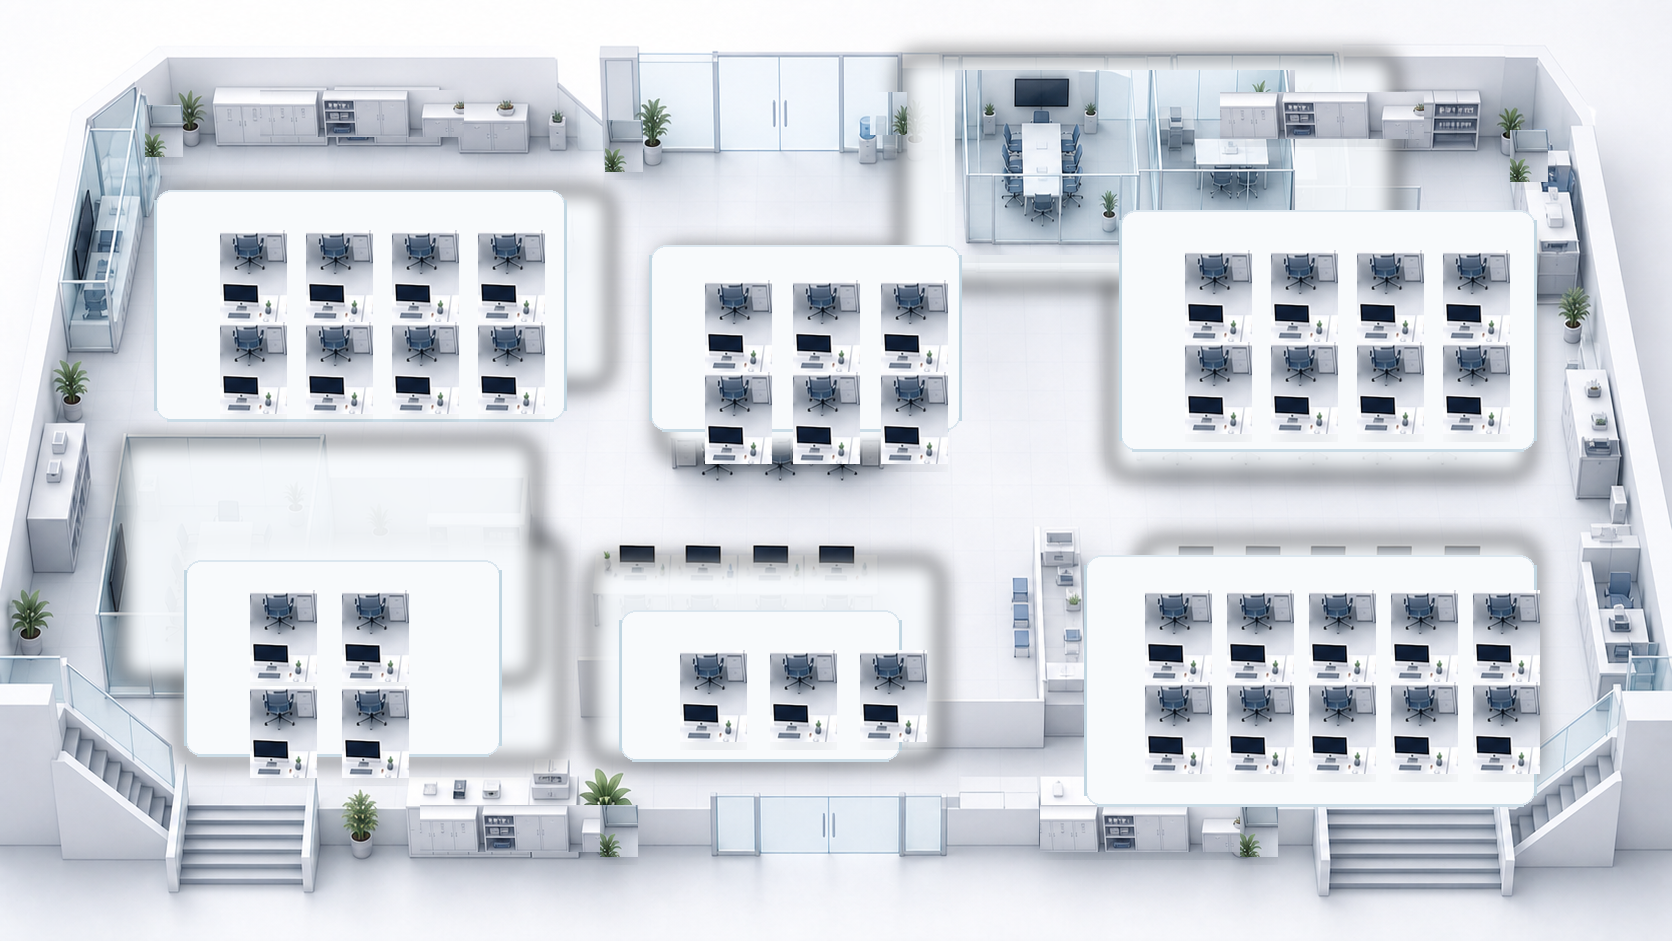
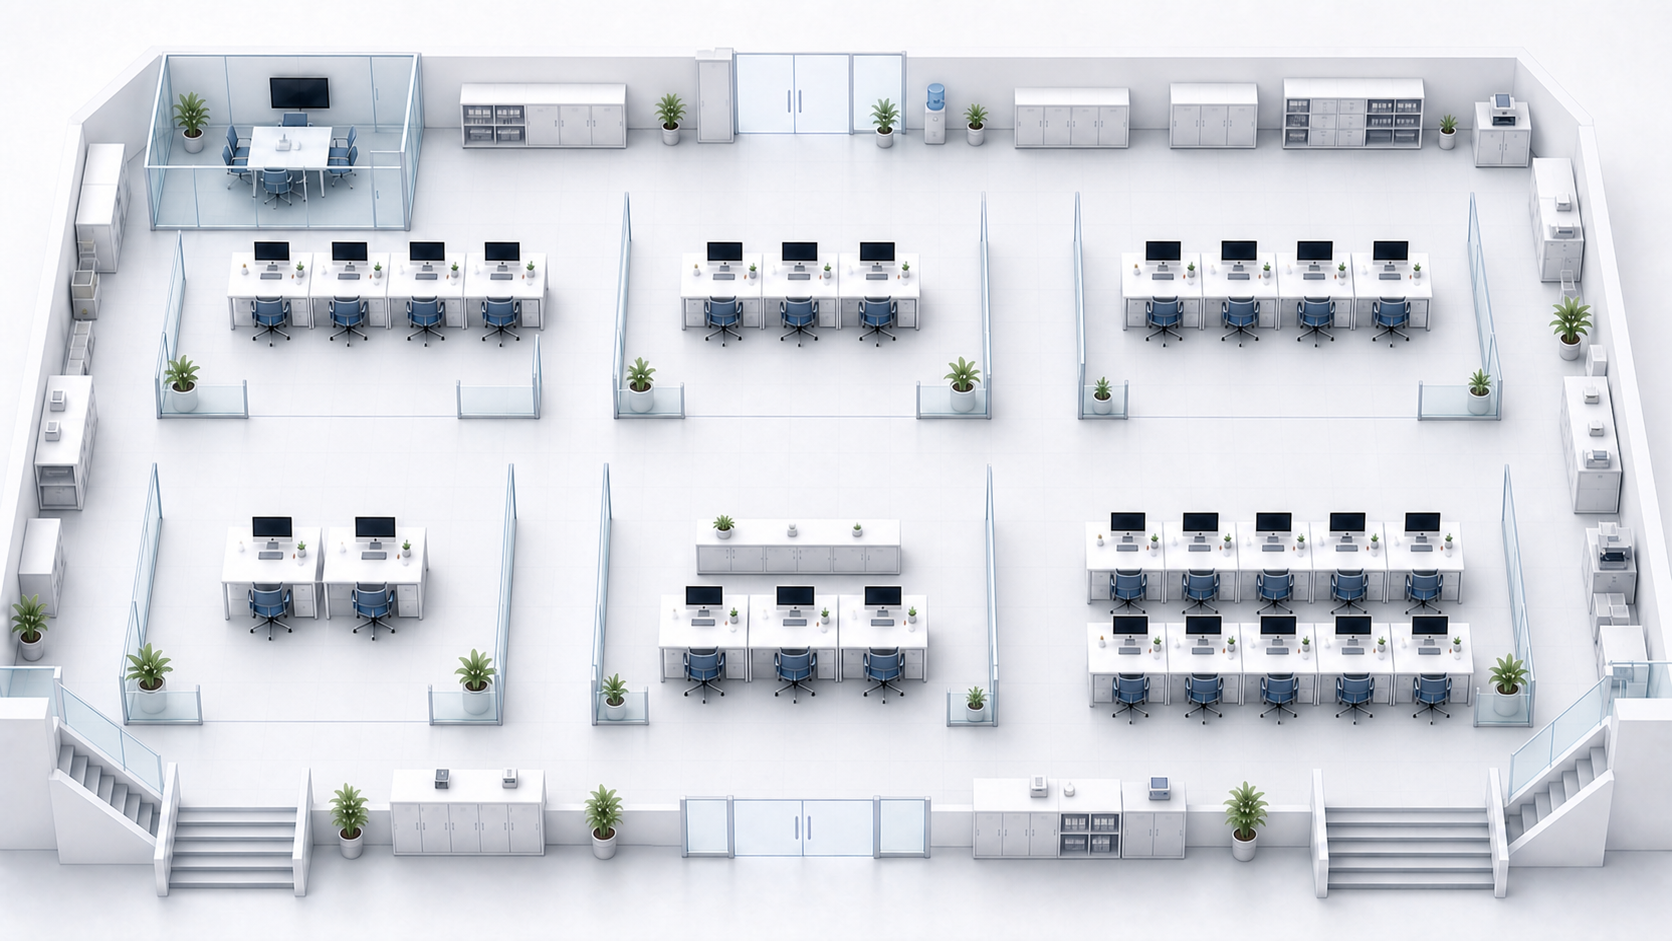
chore: update run-overview images and task launch form styles

diff --git a/apps/web/src/features/task-launches/components/task-launch-form.tsx b/apps/web/src/features/task-launches/components/task-launch-form.tsx
@@ -1,5 +1,6 @@
-import { type ReactNode, useMemo, useState } from "react";
+import { type CSSProperties, type ReactNode, useMemo, useState } from "react";
 import { useMutation } from "@tanstack/react-query";
+import "./task-launch-aurora.css";
 import {
   CircleAlert,
   FolderOpen,
@@ -37,6 +38,31 @@ type TaskLaunchFormProps = {
 function deriveTitle(content: string): string {
   return content.trim().split(/\n+/)[0]?.slice(0, 80) ?? "";
 }
+
+/**
+ * 玻璃外壳：半透明 + 背景模糊，承载页面层级与质感（backdrop-filter 只作用在
+ * 这一层，数据区域使用下方实体内核，避免逐行阅读区产生模糊开销）。
+ * 用内联 style 覆盖 SoftCard 的实底基类（bg-v3-card 等），保证可逆。
+ */
+const auroraShellStyle: CSSProperties = {
+  background: "rgba(255, 255, 255, 0.5)",
+  backdropFilter: "blur(20px) saturate(135%)",
+  WebkitBackdropFilter: "blur(20px) saturate(135%)",
+  border: "1px solid rgba(255, 255, 255, 0.85)",
+  borderRadius: "24px",
+  boxShadow:
+    "0 1px 0 rgba(255, 255, 255, 0.9) inset, 0 28px 64px -30px rgba(36, 58, 140, 0.45)",
+};
+
+/** 实体内核：不透明白底，承载所有逐行可读数据，保证高对比与可访问性。 */
+const auroraCoreStyle: CSSProperties = {
+  margin: "24px",
+  background: "#ffffff",
+  border: "1px solid var(--v3-line-strong)",
+  borderRadius: "14px",
+  overflow: "hidden",
+  boxShadow: "0 10px 30px -22px rgba(36, 58, 140, 0.4)",
+};
 
 export function TaskLaunchForm({
   isSubmitting = false,
@@ -105,8 +131,14 @@ export function TaskLaunchForm({
   }
 
   return (
-    <SoftCard className="mx-auto w-full max-w-[1120px] overflow-hidden p-0">
-      <div className="grid gap-6 p-4 sm:p-6 xl:p-7">
+    <>
+      <div className="tl-aurora-bg" aria-hidden="true" />
+      <SoftCard
+        className="mx-auto w-full max-w-[1120px] overflow-hidden p-0"
+        style={auroraShellStyle}
+      >
+        <div style={auroraCoreStyle}>
+          <div className="grid gap-6 p-4 sm:p-6 xl:p-7">
         <div className="min-w-0">
           <div className="flex items-center gap-2 text-sm font-bold text-v3-brand-deep">
             <Sparkles className="size-4" />
@@ -252,12 +284,14 @@ export function TaskLaunchForm({
           提交任务
         </V3Button>
       </div>
+      </div>
       <PromptTemplateDialog
         open={templateDialogOpen}
         onOpenChange={setTemplateDialogOpen}
         onInsert={handleInsertTemplate}
       />
     </SoftCard>
+    </>
   );
 }
 function LaunchSelect({

diff --git a/apps/web/src/features/task-launches/components/task-launch-aurora.css b/apps/web/src/features/task-launches/components/task-launch-aurora.css
@@ -1,0 +1,31 @@
+/* 任务发起页 · 极光对角玻璃背景（实验性，仅本页作用域）
+ *
+ * 视觉参考：docs/prototypes/task-launch-glass-bg-aurora.html
+ * 设计意图：玻璃外壳 + 实体内核（glass shell / solid core）。
+ *   - 背景为两束低透明对角色晕（左上品牌蓝 / 右下紫）+ 中性冷灰底 + 极淡点阵结构纹理。
+ *   - 该样式只作用于任务发起页，随组件卸载自动移除，不会泄漏到全局。
+ *
+ * 回退方式：删除 task-launch-form.tsx 顶部的 `import "./task-launch-aurora.css";`
+ * 以及该文件中的 <div className="tl-aurora-bg" /> 即可恢复中性基线。
+ */
+
+.tl-aurora-bg {
+  position: fixed;
+  inset: 0;
+  z-index: -1;
+  pointer-events: none;
+  background:
+    radial-gradient(760px 620px at 8% 2%, rgba(47, 95, 255, 0.16), transparent 60%),
+    radial-gradient(720px 600px at 98% 100%, rgba(124, 92, 255, 0.12), transparent 60%),
+    #f2f4fa;
+}
+
+.tl-aurora-bg::before {
+  content: "";
+  position: absolute;
+  inset: 0;
+  background-image: radial-gradient(rgba(47, 95, 255, 0.09) 1px, transparent 1.4px);
+  background-size: 22px 22px;
+  -webkit-mask-image: radial-gradient(circle at 50% 32%, #000, transparent 80%);
+  mask-image: radial-gradient(circle at 50% 32%, #000, transparent 80%);
+}
